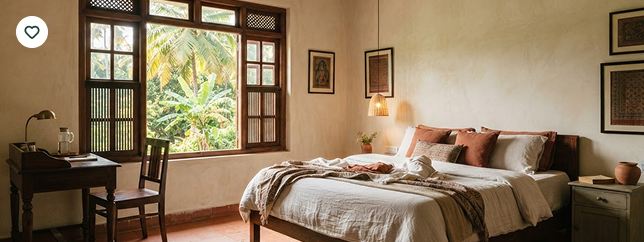
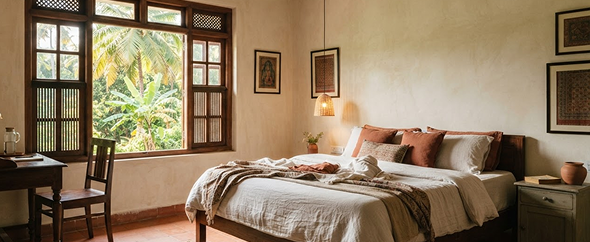
update

diff --git a/js/main.js b/js/main.js
@@ -10,6 +10,50 @@ const $ = (selector) => document.querySelector(selector);
 const checkIn = $('#check-in');
 const checkOut = $('#check-out');
 const localDate = (date) => `${date.getFullYear()}-${String(date.getMonth() + 1).padStart(2, '0')}-${String(date.getDate()).padStart(2, '0')}`;
+const parseDateTime = (value) => {
+  const match = /^(\d{4}-\d{2}-\d{2})[ T](\d{2}:\d{2})/.exec((value || '').trim());
+  return match ? new Date(`${match[1]}T${match[2]}`) : null;
+};
+const formatDateTime = (date) => `${localDate(date)} at ${String(date.getHours()).padStart(2, '0')}:${String(date.getMinutes()).padStart(2, '0')}`;
+const modalCheckIn = $('#modal-check-in');
+const modalCheckInTime = $('#modal-check-in-time');
+const modalCheckOut = $('#modal-check-out');
+const modalCheckOutTime = $('#modal-check-out-time');
+const basePickerConfig = {
+  allowInput: true,
+  disableMobile: true,
+  static: true,
+  dateFormat: 'Y-m-d',
+  minDate: 'today'
+};
+const timePickerConfig = {
+  enableTime: true,
+  noCalendar: true,
+  dateFormat: 'H:i',
+  time_24hr: true,
+  minuteIncrement: 15,
+  allowInput: true,
+  disableMobile: true,
+  static: true
+};
+let checkInPicker = null;
+let checkOutPicker = null;
+let checkInTimePicker = null;
+let checkOutTimePicker = null;
+if (window.flatpickr) {
+  checkInPicker = window.flatpickr(modalCheckIn, {
+    ...basePickerConfig,
+    onChange: (dates) => {
+      const date = dates[0] || null;
+      checkOutPicker.set('minDate', date ? localDate(date) : 'today');
+      const checkOutDate = checkOutPicker.selectedDates[0];
+      if (date && checkOutDate && checkOutDate < date) checkOutPicker.clear();
+    }
+  });
+  checkInTimePicker = window.flatpickr(modalCheckInTime, { ...timePickerConfig, defaultHour: 12, defaultMinute: 0 });
+  checkOutPicker = window.flatpickr(modalCheckOut, { ...basePickerConfig });
+  checkOutTimePicker = window.flatpickr(modalCheckOutTime, { ...timePickerConfig, defaultHour: 11, defaultMinute: 0 });
+}
 checkIn.min = localDate(new Date());
 checkOut.min = checkIn.min;
 checkIn.addEventListener('change', () => {
@@ -24,7 +68,7 @@ function render() {
   let visible = rooms.filter(room => (state.type === 'all' || room.type === state.type) && (state.ac === 'any' || room.ac === state.ac) && (state.guests === 'any' || room.guests >= Number(state.guests)));
   if (state.sort === 'name') visible.sort((a, b) => a.name.localeCompare(b.name));
   if (state.sort === 'guests') visible.sort((a, b) => a.guests - b.guests);
-  $('#room-grid').innerHTML = visible.map(room => `<article class="room-card"><div class="room-photo"><img src="images/sample-room-image.png" alt="Illustrative room interior at Edappally Homestay" width="644" height="242" loading="lazy"><button class="favorite" data-favorite="${room.id}" aria-label="Save ${room.name}" aria-pressed="${state.favorites.has(room.id)}">${state.favorites.has(room.id) ? '♥' : '♡'}</button></div><div class="room-content"><p class="eyebrow">${room.name.toUpperCase()}</p><h3>${room.name}</h3><p class="room-meta">⌖ ${room.guests} ${room.guests === 1 ? 'guest' : 'guests'} · ${room.ac === 'ac' ? 'Air-conditioned' : 'Non-air-conditioned'}</p><p class="room-description">${room.ac === 'ac' ? 'Air-conditioned room' : 'Non-air-conditioned room'}</p><p class="rate">Rate to be confirmed <small>per night</small></p><button class="text-link" data-details="${room.id}">View room <span aria-hidden="true">↗</span></button></div></article>`).join('');
+  $('#room-grid').innerHTML = visible.map(room => `<article class="room-card"><div class="room-photo"><img src="images/sample-room-image.png" alt="Illustrative room interior at Edappally Homestay" width="644" height="242" loading="lazy"><button class="favorite" data-favorite="${room.id}" aria-label="Save ${room.name}" aria-pressed="${state.favorites.has(room.id)}">${state.favorites.has(room.id) ? '♥' : '♡'}</button></div><div class="room-content"><p class="eyebrow">${room.name.toUpperCase()}</p><h3>${room.name}</h3><p class="room-meta">⌖ ${room.guests} ${room.guests === 1 ? 'guest' : 'guests'} · ${room.ac === 'ac' ? 'Air-conditioned' : 'Non-air-conditioned'}</p><p class="room-description">${room.ac === 'ac' ? 'Air-conditioned room' : 'Non-air-conditioned room'}</p><p class="rate">Rate to be confirmed <small>per night</small></p><button class="button book-now" data-details="${room.id}">Book Now</button></div></article>`).join('');
   $('#no-results').hidden = visible.length > 0;
   document.querySelectorAll('[data-ac]').forEach(button => { const active = button.dataset.ac === state.ac; button.classList.toggle('active', active); button.setAttribute('aria-pressed', active); });
   document.querySelectorAll('[data-filter]').forEach(button => { const active = button.dataset.filter === 'ac' ? state.ac === 'ac' && state.type === 'all' : button.dataset.filter === state.type && !(state.ac === 'ac' && state.type === 'all'); button.classList.toggle('active', active); button.setAttribute('aria-pressed', active); });
@@ -49,18 +93,59 @@ $('#room-grid').addEventListener('click', event => {
   const room = rooms.find(room => room.id === details.dataset.details);
   $('#dialog-title').textContent = room.name;
   $('#dialog-description').textContent = `${room.guests} ${room.guests === 1 ? 'guest' : 'guests'} · ${room.ac === 'ac' ? 'Air-conditioned' : 'Non-air-conditioned'} room. Photo is illustrative; confirm the assigned room when enquiring.`;
-  const dates = checkIn.value && checkOut.value ? `Requested stay: ${checkIn.value} to ${checkOut.value}` : '';
-  $('#dialog-dates').textContent = dates;
-  const enquiry = [
-    `Hello, I would like to enquire about ${room.name} at Edappally Homestay.`,
-    `Room capacity: ${room.guests} ${room.guests === 1 ? 'guest' : 'guests'}.`,
-    $('#guests').value !== 'any' ? `Requested guests: ${$('#guests').value}.` : '',
-    checkIn.value ? `Check-in: ${checkIn.value}` : '',
-    checkOut.value ? `Check-out: ${checkOut.value}` : '',
+  $('#room-dialog').dataset.room = room.id;
+  const checkInDateValue = checkIn.value || '';
+  const checkInTimeValue = '12:00';
+  const checkOutDateValue = checkOut.value || '';
+  const checkOutTimeValue = '11:00';
+  if (checkInPicker) {
+    checkInPicker.setDate(checkInDateValue, false);
+    checkInTimePicker.setDate(checkInTimeValue, false);
+    checkOutPicker.set('minDate', checkInDateValue || 'today');
+    checkOutPicker.setDate(checkOutDateValue, false);
+    checkOutTimePicker.setDate(checkOutTimeValue, false);
+  } else {
+    modalCheckIn.value = checkInDateValue;
+    modalCheckInTime.value = checkInTimeValue;
+    modalCheckOut.value = checkOutDateValue;
+    modalCheckOutTime.value = checkOutTimeValue;
+  }
+  [modalCheckIn, modalCheckInTime, modalCheckOut, modalCheckOutTime].forEach(input => input.setCustomValidity(''));
+  $('#room-dialog').showModal();
+});
+[modalCheckIn, modalCheckInTime, modalCheckOut, modalCheckOutTime].forEach(input => input.addEventListener('input', () => input.setCustomValidity('')));
+$('#reserve-form').addEventListener('submit', event => {
+  event.preventDefault();
+  const room = rooms.find(room => room.id === $('#room-dialog').dataset.room);
+  if (!room) return;
+  const start = parseDateTime(`${modalCheckIn.value} ${modalCheckInTime.value}`);
+  const end = parseDateTime(`${modalCheckOut.value} ${modalCheckOutTime.value}`);
+  if (!start) {
+    modalCheckInTime.setCustomValidity('Please pick a valid check-in date and time.');
+    modalCheckInTime.reportValidity();
+    return;
+  }
+  if (!end) {
+    modalCheckOutTime.setCustomValidity('Please pick a valid check-out date and time.');
+    modalCheckOutTime.reportValidity();
+    return;
+  }
+  if (end <= start) {
+    modalCheckOutTime.setCustomValidity('Check-out must be after check-in.');
+    modalCheckOutTime.reportValidity();
+    return;
+  }
+  modalCheckInTime.setCustomValidity('');
+  modalCheckOutTime.setCustomValidity('');
+  const guests = $('#guests').value;
+  const message = [
+    `Hello, I would like to reserve ${room.name} at Edappally Homestay.`,
+    `Check-in: ${formatDateTime(start)}`,
+    `Check-out: ${formatDateTime(end)}`,
+    guests !== 'any' ? `Guests: ${guests}` : '',
     'Please confirm availability and the nightly rate. Thank you.'
   ].filter(Boolean).join('\n');
-  $('#enquiry-link').href = `https://wa.me/918667373306?text=${encodeURIComponent(enquiry)}`;
-  $('#room-dialog').showModal();
+  window.open(`https://wa.me/918667373306?text=${encodeURIComponent(message)}`, '_blank', 'noopener');
 });
 $('.dialog-close').addEventListener('click', () => $('#room-dialog').close());
 $('#room-dialog').addEventListener('click', event => { if (event.target === $('#room-dialog')) { const bounds = event.target.getBoundingClientRect(); if (event.clientX < bounds.left || event.clientX > bounds.right || event.clientY < bounds.top || event.clientY > bounds.bottom) event.target.close(); } });

diff --git a/index.html b/index.html
@@ -6,7 +6,9 @@
   <meta name="description" content="Find your room at Edappally Homestay. Comfortable single and double rooms, with AC and non-AC options, in the heart of Edappally, Kochi.">
   <meta name="theme-color" content="#153e32">
   <title>Edappally Homestay — Feel at home.</title>
+  <link rel="stylesheet" href="https://cdn.jsdelivr.net/npm/flatpickr/dist/flatpickr.min.css">
   <link rel="stylesheet" href="css/style.css">
+  <script src="https://cdn.jsdelivr.net/npm/flatpickr/dist/flatpickr.min.js" defer></script>
   <script src="js/main.js" defer></script>
 </head>
 <body>
@@ -20,7 +22,7 @@
   <main>
     <section class="hero container" aria-labelledby="hero-title">
       <div class="hero-copy"><p class="eyebrow hero-eyebrow"><span aria-hidden="true">♧</span> ONLY EDAPPALLY. ALL HEART.</p><h1 id="hero-title">Find Your Perfect Room in Edappally</h1><p>Comfortable single and double rooms in one convenient location.<br>Choose AC or non-AC and find the right room for your stay.</p></div>
-      <form class="search-bar" id="room-search">
+      <form class="search-bar" id="room-search" style="display:none">
         <label class="search-field"><span class="field-icon" aria-hidden="true">⌖</span><span><span class="field-label">Check-in</span><input type="date" id="check-in" aria-label="Check-in date"></span></label>
         <label class="search-field"><span class="field-icon" aria-hidden="true">▦</span><span><span class="field-label">Check-out</span><input type="date" id="check-out" aria-label="Check-out date"></span></label>
         <label class="search-field"><span class="field-icon" aria-hidden="true">▦</span><span><span class="field-label">Room type</span><select id="room-type"><option value="all">Single / Double</option><option value="single">Single</option><option value="double">Double</option></select></span></label>
@@ -31,7 +33,7 @@
     </section>
     <div class="reassurance container"><span>One building, easy check-in</span><span>Clear room rates</span><span>Local help when you need it</span></div>
     <section class="rooms-section container" id="rooms" aria-labelledby="rooms-title">
-      <p class="eyebrow">CHOOSE YOUR ROOM</p><div class="section-heading"><div><h2 id="rooms-title">Find Your Room</h2><p>Choose the room type and comfort that suits your stay.</p></div><button class="text-link" id="view-all">View all rooms <span>→</span></button></div>
+      <p class="eyebrow">CHOOSE YOUR ROOM</p><div class="section-heading"><div><h2 id="rooms-title">Find Your Room</h2><p>Choose the room type and comfort that suits your stay.</p></div><button class="text-link" id="view-all" style="display:none">View all rooms <span>→</span></button></div>
       <div class="refine"><div class="refine-title"><h3><span aria-hidden="true">☷</span> Refine your room</h3><button id="reset" class="reset">Reset</button></div><p>AC preference</p><div class="chips" id="ac-filters" aria-label="AC preference"><button class="chip active" data-ac="any" aria-pressed="true">◈ Any</button><button class="chip" data-ac="ac" aria-pressed="false">❄ AC</button><button class="chip" data-ac="non-ac" aria-pressed="false">▤ Non-AC</button></div></div>
       <div class="room-toolbar"><div class="chips" id="room-filters" aria-label="Room category"><button class="chip active" data-filter="all" aria-pressed="true">All rooms</button><button class="chip" data-filter="single" aria-pressed="false">Single</button><button class="chip" data-filter="double" aria-pressed="false">Double</button><button class="chip" data-filter="ac" aria-pressed="false">AC</button></div><label class="sort">Sort by <select id="sort"><option value="recommended">Recommended</option><option value="name">Room name</option><option value="guests">Guest capacity</option></select></label></div>
       <div class="room-grid" id="room-grid"></div><p id="no-results" class="empty-state" hidden>No rooms match these preferences. Try another room type or reset the filters.</p><p class="rate-note" id="results-note" aria-live="polite">Nightly rates and availability will be confirmed before booking.</p>
@@ -45,6 +47,6 @@
     <section class="neighbourhood container" aria-labelledby="neighbourhood-title"><img src="images/YOUR-CORNER-OF-KOCHI.png" alt="Kochi Metro passing above a leafy neighbourhood street with an auto rickshaw" width="596" height="388" loading="lazy"><div><p class="eyebrow">YOUR CORNER OF KOCHI</p><h2 id="neighbourhood-title">One neighbourhood.<br>Everything close by.</h2><p>Morning chai, a quick metro ride, an evening at Lulu. Stay where everyday Kochi comes together.</p><ul class="landmarks"><li><span aria-hidden="true">▤</span><div><strong>Edappally Metro</strong><p>Your easy connection to the city</p></div></li><li><span aria-hidden="true">▢</span><div><strong>Lulu Mall</strong><p>Shopping, dining and a little downtime</p></div></li><li><span aria-hidden="true">♧</span><div><strong>St. George Forane Church</strong><p>A beloved Edappally landmark</p></div></li></ul><a class="text-link" href="#contact">Need help choosing a room? Ask us <span>→</span></a></div></section>
   </main>
   <footer id="contact"><div class="container"><div class="footer-cta"><div><h2>Come for the stay. Feel at home.</h2><p>A quick visit or a longer chapter — there’s a place for you in Edappally.</p></div><a class="button" href="#rooms"><span>→</span> Find your room</a></div><div class="footer-grid"><div><a href="#" aria-label="Edappally Homestay home"><img class="logo" src="images/footer-logo.png" alt="Edappally Homestay" width="160" height="43" loading="lazy"></a><p>Comfortable single and double rooms in one convenient location.<br>One building. A warmer welcome.</p></div><div><h3>Find a room</h3><a href="#rooms" data-room-link="single">Single</a><a href="#rooms" data-room-link="double">Double</a><a href="#rooms" data-ac-link="ac">AC</a><a href="#rooms" data-ac-link="non-ac">Non-AC</a></div><div><h3>Let’s talk, neighbour</h3><a href="tel:+919847024860">♧ &nbsp; +91 98470 24860</a><a href="mailto:hello@edappallyhomestay.com">✉ &nbsp; hello@edappallyhomestay.com</a><p>⌖ &nbsp; Edappally, Kochi, Kerala 682024</p></div></div><div class="footer-bottom"><p>© 2026 Edappally Homestay. Made with local love.</p><p>One neighbourhood. A place to feel at home.</p></div></div></footer>
-  <dialog id="room-dialog"><button class="dialog-close" aria-label="Close room details">×</button><img src="images/sample-room-image.png" alt="Room interior"><div class="dialog-copy"><p class="eyebrow">EDAPPALLY HOMESTAY</p><h2 id="dialog-title"></h2><p id="dialog-description"></p><p id="dialog-dates"></p><p><strong>Rate to be confirmed</strong> per night.</p><p>Contact us to confirm room availability and the final rate before booking.</p><a class="button" id="enquiry-link" href="https://wa.me/918667373306" target="_blank" rel="noopener noreferrer">Enquire about this room <span>↗</span></a></div></dialog>
+  <dialog id="room-dialog"><button class="dialog-close" aria-label="Close room details">×</button><img src="images/sample-room-image.png" alt="Room interior"><div class="dialog-copy"><p class="eyebrow">EDAPPALLY HOMESTAY</p><h2 id="dialog-title"></h2><p id="dialog-description"></p><p><strong>Rate to be confirmed</strong> per night.</p><p>Choose your check-in and check-out details, then reserve on WhatsApp.</p><form class="reserve-form" id="reserve-form"><div class="reserve-grid"><div class="reserve-field"><label class="field-label" for="modal-check-in">Check-in date</label><input type="text" id="modal-check-in" placeholder="YYYY-MM-DD" autocomplete="off" required></div><div class="reserve-field"><label class="field-label" for="modal-check-in-time">Check-in time</label><input type="text" id="modal-check-in-time" placeholder="HH:MM" autocomplete="off" required></div><div class="reserve-field"><label class="field-label" for="modal-check-out">Check-out date</label><input type="text" id="modal-check-out" placeholder="YYYY-MM-DD" autocomplete="off" required></div><div class="reserve-field"><label class="field-label" for="modal-check-out-time">Check-out time</label><input type="text" id="modal-check-out-time" placeholder="HH:MM" autocomplete="off" required></div></div><button class="button reserve-button" type="submit" id="reserve-now">Reserve Now</button></form></div></dialog>
 </body>
 </html>

diff --git a/css/style.css b/css/style.css
@@ -3,3 +3,19 @@
 @media(max-width:1150px){.container{width:calc(100% - 64px)}.hero h1{font-size:52px;max-width:680px}.search-bar{grid-template-columns:repeat(3,minmax(0,1fr));gap:18px}.search-field:nth-child(3){border:0}.search-button{margin:0}.hero-copy{padding-bottom:210px}.hero{min-height:540px}.footer-grid{gap:45px}.benefits-grid{gap:25px}.neighbourhood{gap:38px}h2{font-size:31px}}
 @media(max-width:700px){.container{width:calc(100% - 36px)}.site-header{height:auto;min-height:88px;gap:15px;flex-wrap:wrap;padding-block:18px}.logo{width:140px}.site-header nav{gap:15px;font-size:12px;flex-wrap:wrap}.site-header .button{padding:10px 14px;border-radius:8px}.hero{border-radius:20px;min-height:0}.hero-copy{padding:34px 24px 30px}.hero h1{font-size:39px;letter-spacing:-1.3px;line-height:1.13}.hero-copy>p:last-child{font-size:14px}.hero-copy br{display:none}.hero-eyebrow{font-size:10px}.search-bar{position:relative;left:auto;right:auto;bottom:auto;margin:0 12px 12px;padding:18px 10px;grid-template-columns:repeat(2,minmax(0,1fr));gap:20px 0;border-radius:15px}.search-field{padding:0 8px;gap:6px}.search-field:nth-child(3){border-right:1px solid var(--border)}.search-field:nth-child(even){border:0}.search-field input,.search-field select{font-size:11px}.field-icon{font-size:18px}.search-button{font-size:11px;padding:14px 8px;margin-left:8px;gap:5px;border-radius:8px}.search-button svg{width:16px}.reassurance{flex-wrap:wrap;gap:0 15px;padding-top:10px;font-size:10px}.reassurance span:before{font-size:16px}.rooms-section{padding-top:40px;padding-bottom:44px}h2{font-size:28px;letter-spacing:-.8px}.section-heading{gap:20px;align-items:flex-start}.section-heading p{font-size:13px}.section-heading .text-link{font-size:11px;white-space:nowrap;padding-top:8px;gap:4px}.section-heading .text-link span{font-size:18px}.refine{padding:18px;border-radius:17px}.room-toolbar{align-items:flex-start;flex-wrap:wrap;margin-top:20px}.chip{font-size:11px}.room-grid{grid-template-columns:1fr;gap:20px}.room-content{padding:18px}.room-content h3{font-size:20px}.benefits{padding:40px 0}.benefits-grid{grid-template-columns:1fr 1fr;gap:30px 20px;margin-top:30px}.benefits-grid h3{font-size:17px}.benefits-grid p{font-size:12px}.neighbourhood{grid-template-columns:1fr;gap:28px;padding-block:42px}.footer-cta{align-items:flex-start;flex-direction:column;padding-block:32px}.footer-cta h2{font-size:28px}.footer-grid{grid-template-columns:1fr 1fr;gap:30px;padding-bottom:32px}.footer-grid>div:first-child{grid-column:1/-1;max-width:300px}.footer-grid>div:last-child{min-width:0}.footer-grid a{overflow-wrap:anywhere}.footer-bottom{flex-direction:column;gap:8px;padding-block:22px}.dialog-copy{padding:22px}}
 @media(prefers-reduced-motion:reduce){html{scroll-behavior:auto}*{transition:none!important}}
+.favorite{display:none}
+.book-now{margin-top:14px;padding:12px 28px;border-radius:999px;font-size:13px}
+.reserve-form{margin-top:4px}
+.reserve-grid{display:grid;grid-template-columns:1fr;gap:14px;margin-bottom:18px}
+.reserve-field{display:flex;flex-direction:column;gap:6px}
+.reserve-field .field-label{font-size:11px;font-weight:700;letter-spacing:.4px;text-transform:uppercase;color:var(--muted)}
+.reserve-field input{width:100%;background:#fff;border:1px solid var(--border);border-radius:10px;padding:10px 12px;font-size:13px;color:var(--green)}
+.reserve-field input::placeholder{color:#9aa096}
+.reserve-field input:focus{outline:3px solid #e99758;outline-offset:2px}
+.reserve-button{width:100%;border-radius:999px;justify-content:center}
+.flatpickr-calendar{font-family:inherit;box-shadow:0 10px 30px rgba(20,59,48,.18)}
+.flatpickr-day.selected,.flatpickr-day.startRange,.flatpickr-day.endRange,.flatpickr-day.selected:focus,.flatpickr-day.selected:hover,.flatpickr-day.startRange:hover,.flatpickr-day.endRange:hover{background:var(--orange);border-color:var(--orange)}
+.flatpickr-day.today{border-color:var(--orange)}
+.flatpickr-day.today:hover{background:var(--pale);color:var(--green)}
+.flatpickr-time input:hover,.flatpickr-time input:focus{background:var(--pale)}
+.flatpickr-current-month,.flatpickr-months .flatpickr-month{color:var(--green)}
